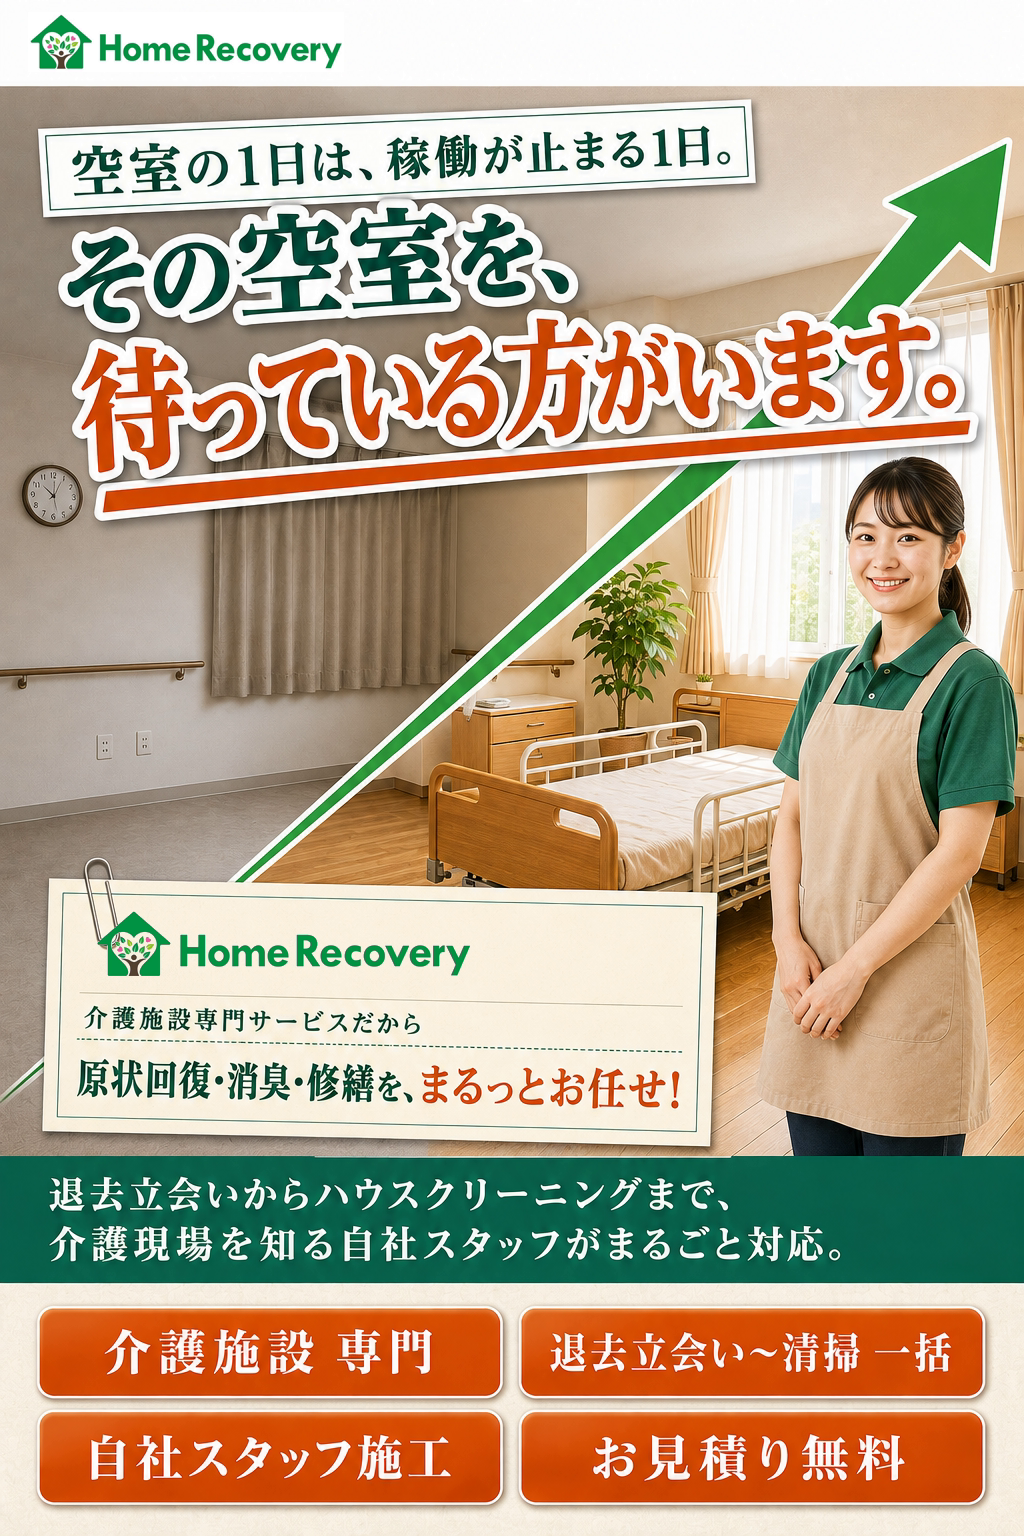
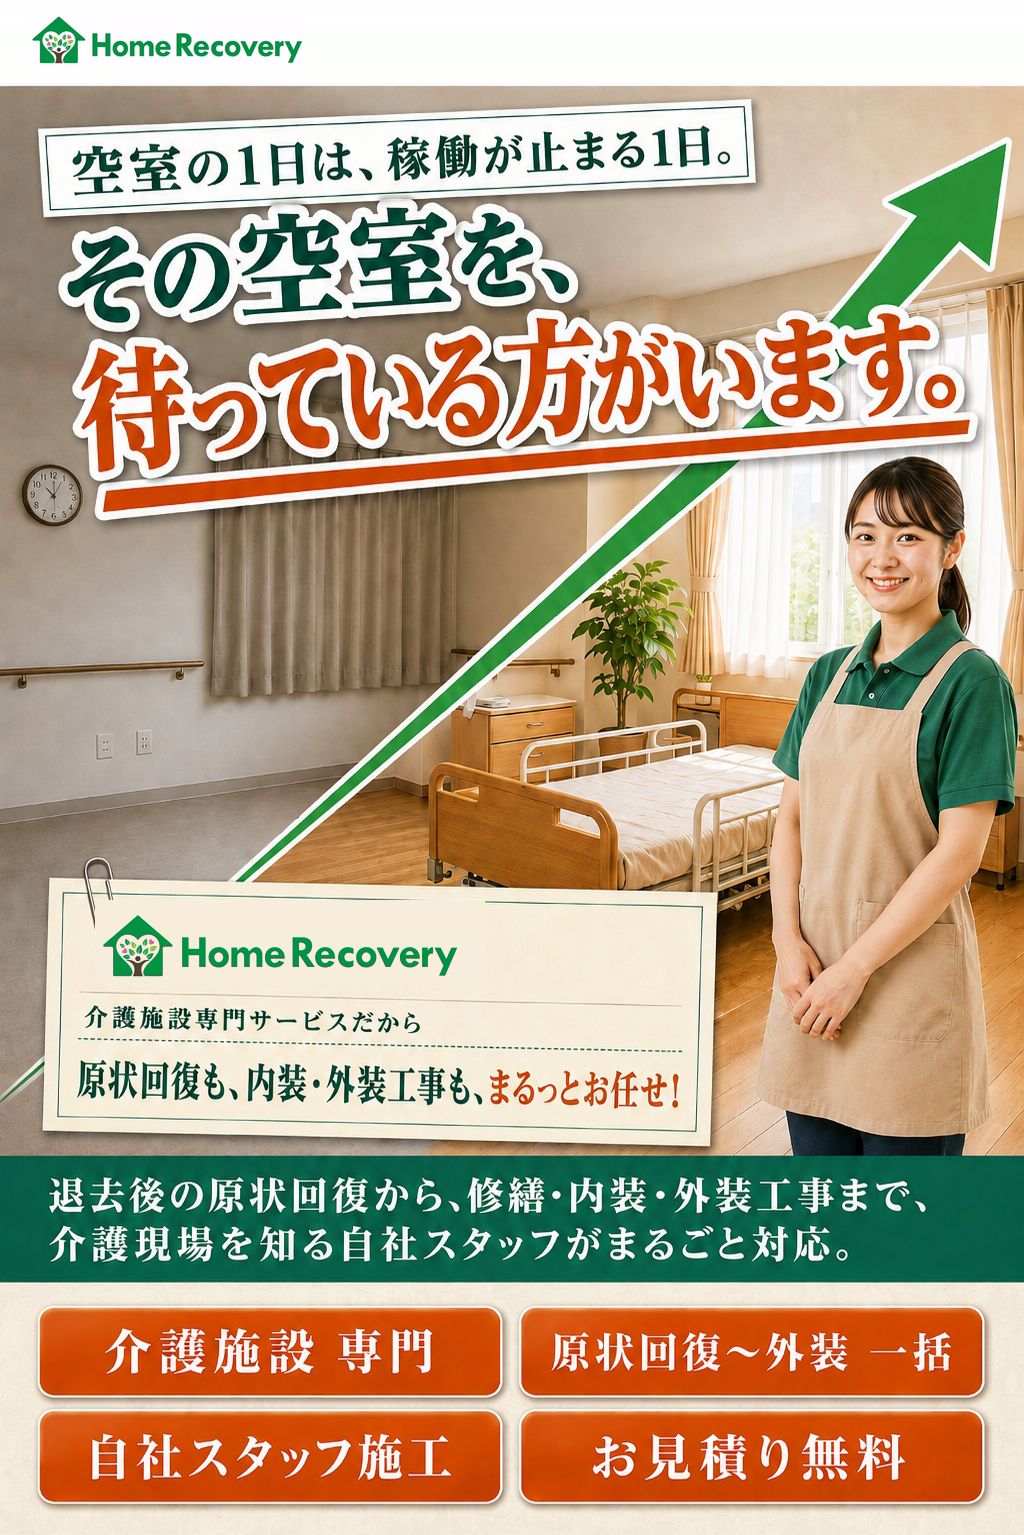
v3.8: FV文言をポジショニング拡大に整合（紙片・サブ帯・バッジ）

diff --git a/index.html b/index.html
@@ -43,7 +43,7 @@
 <div class="wrap">
 
   <!-- 01 FV -->
-  <div class="stack"><img src="images/v4-01.png" alt="空室の1日は、稼働が止まる1日。その空室を、待っている方がいます。介護施設専門サービスだから原状回復・消臭・修繕を、まるっとお任せ！"></div>
+  <div class="stack"><img src="images/v4-01.png" alt="空室の1日は、稼働が止まる1日。その空室を、待っている方がいます。介護施設専門サービスだから原状回復も、内装・外装工事も、まるっとお任せ！"></div>
   <div class="note">※対応エリア：一都三県（東京・神奈川・埼玉・千葉）　※住宅型有料老人ホーム・サービス付き高齢者向け住宅・グループホーム・介護付き有料老人ホーム等に対応</div>
 
   <!-- 02 相談カード帯 -->
